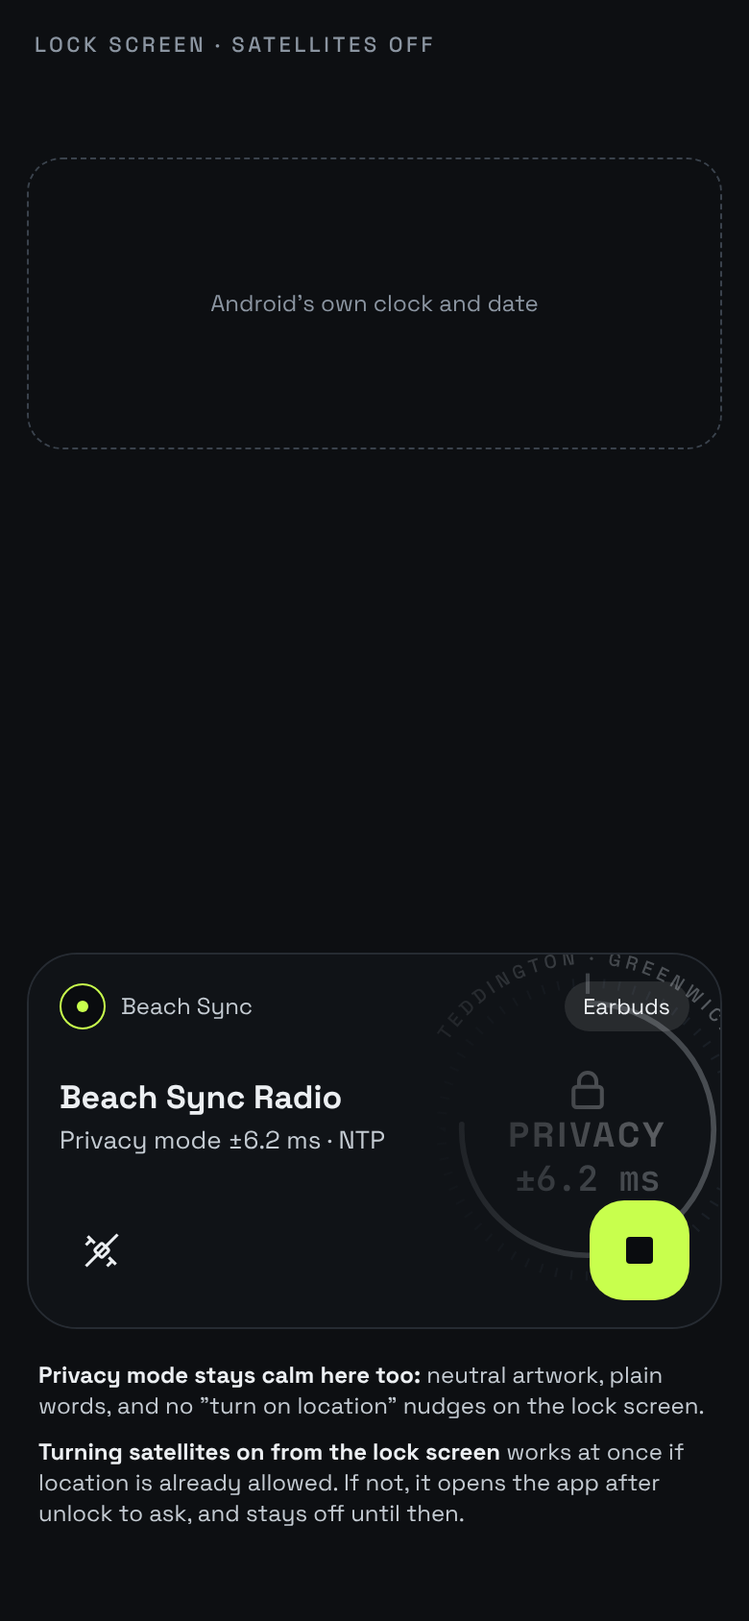
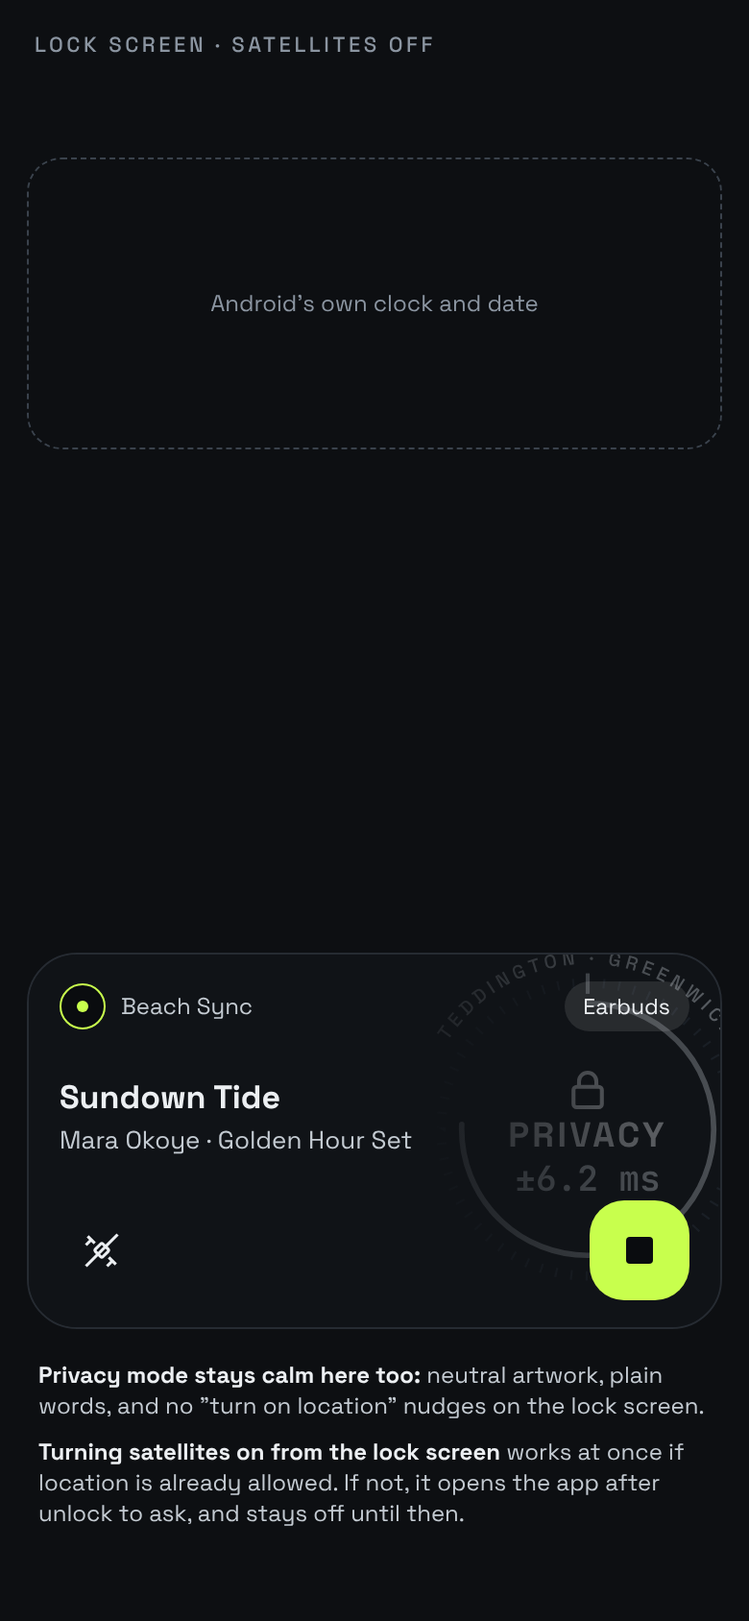
Add design hand-off 04 from Claude Desktop
Track and set names, the rate nudge row redesign, and answers to the
2 Nov notes in feedback.md.

Changed region(s): [[0.0615, 0.6469, 0.5538, 0.7085]]

diff --git a/design/screens/test-bench-states.html b/design/screens/test-bench-states.html
@@ -37,26 +37,34 @@ body{margin:0;background:#0A0C0F}
     <div style="background: #12161B; border: 1px solid #222932; border-radius: 12px; display: flex; align-items: center; justify-content: space-between; padding: 4px 4px 4px 12px"><span style="font-size: 13px; color: #C4CBD2">Off · Privacy mode</span><span style="width: 52px; height: 44px; display: flex; align-items: center; justify-content: center"><span style="width: 46px; height: 26px; border-radius: 13px; border: 1.5px solid #4A5562; display: flex; align-items: center; padding: 2px; box-sizing: border-box"><span style="width: 18px; height: 18px; border-radius: 50%; background: #8B95A1"></span></span></span></div>
   </div>
 
-  <span style="font-size: 10.5px; letter-spacing: 0.16em; color: #8B95A1; margin-top: 4px">RATE NUDGE ROW · UNDER THE LATEST EVENT</span>
-  <a href="nudge-control.html" style="text-decoration: none; color: #ECEFF2; min-height: 44px; display: grid; grid-template-columns: auto minmax(0, 1fr) auto; gap: 10px; align-items: center; background: #12161B; border: 1px solid #222932; border-radius: 12px; padding: 0 12px; font-size: 12.5px">
-    <span style="font-size: 11px; font-weight: 700; letter-spacing: 0.12em; padding: 3px 8px; border-radius: 6px; border: 1px solid #4A5562">AUTO</span>
-    <span style="white-space: nowrap; overflow: hidden; text-overflow: ellipsis">gap <span style="font-family: 'JetBrains Mono', ui-monospace, monospace">0.2 ms</span> · closes in <span style="font-family: 'JetBrains Mono', ui-monospace, monospace">1.4 s</span> · <span style="font-family: 'JetBrains Mono', ui-monospace, monospace">+0.01%</span></span>
-    <span style="font-size: 12px; color: #8B95A1">Nudge ›</span>
-  </a>
-  <a href="nudge-control.html" style="text-decoration: none; color: #ECEFF2; min-height: 44px; display: grid; grid-template-columns: auto minmax(0, 1fr) auto; gap: 10px; align-items: center; background: #12161B; border: 1px solid #222932; border-radius: 12px; padding: 0 12px; font-size: 12.5px">
-    <span style="font-size: 11px; font-weight: 700; letter-spacing: 0.12em; padding: 3px 8px; border-radius: 6px; border: 1px solid #C8FF4D; color: #C8FF4D">MANUAL</span>
-    <span style="white-space: nowrap; overflow: hidden; text-overflow: ellipsis">gap <span style="font-family: 'JetBrains Mono', ui-monospace, monospace">5.0 ms</span> · paused</span>
-    <span style="font-size: 12px; color: #8B95A1">Nudge ›</span>
-  </a>
+  <span style="font-size: 10.5px; letter-spacing: 0.16em; color: #8B95A1; margin-top: 4px">RATE NUDGE ROW · AUTO, MANUAL, NO GAP</span>
+  <a href="nudge-control.html" aria-label="Gap 0.20 milliseconds, Auto" style="text-decoration: none; color: #ECEFF2; min-height: 48px; display: grid; grid-template-columns: auto auto minmax(0, 1fr) auto; gap: 10px; align-items: center; background: #12161B; border: 1px solid #222932; border-radius: 12px; padding: 0 12px;">
+      <span style="font-size: 11px; font-weight: 700; letter-spacing: 0.12em; padding: 3px 8px; border-radius: 6px; border: 1px solid #4A5562">AUTO</span>
+      <span style="font-family: 'JetBrains Mono', ui-monospace, monospace; font-size: 14px; font-weight: 600">0.20 ms</span>
+      <span style="display: flex; flex-direction: column; gap: 1px; min-width: 0; font-size: 11px; color: #8B95A1"><span style="white-space: nowrap; overflow: hidden; text-overflow: ellipsis">gap · closes in 1.40 s</span><span style="white-space: nowrap; overflow: hidden; text-overflow: ellipsis">pitch +0.014%</span></span>
+      <span style="display: flex; align-items: center; color: #8B95A1"><svg width="14" height="14" viewBox="0 0 24 24" fill="none" stroke="currentColor" stroke-width="2" aria-hidden="true"><path d="M9 5l7 7-7 7"></path></svg></span>
+    </a>
+  <a href="nudge-control.html" aria-label="Gap 5 milliseconds, Manual, paused" style="text-decoration: none; color: #ECEFF2; min-height: 48px; display: grid; grid-template-columns: auto auto minmax(0, 1fr) auto; gap: 10px; align-items: center; background: #12161B; border: 1px solid #222932; border-radius: 12px; padding: 0 12px;">
+      <span style="font-size: 11px; font-weight: 700; letter-spacing: 0.12em; padding: 3px 8px; border-radius: 6px; border: 1px solid #C8FF4D; color: #C8FF4D">MANUAL</span>
+      <span style="font-family: 'JetBrains Mono', ui-monospace, monospace; font-size: 14px; font-weight: 600">5.00 ms</span>
+      <span style="display: flex; flex-direction: column; gap: 1px; min-width: 0; font-size: 11px; color: #8B95A1"><span style="white-space: nowrap; overflow: hidden; text-overflow: ellipsis">gap · paused</span><span style="white-space: nowrap; overflow: hidden; text-overflow: ellipsis">period 20 s</span></span>
+      <span style="display: flex; align-items: center; color: #8B95A1"><svg width="14" height="14" viewBox="0 0 24 24" fill="none" stroke="currentColor" stroke-width="2" aria-hidden="true"><path d="M9 5l7 7-7 7"></path></svg></span>
+    </a>
+  <a href="nudge-control.html" aria-label="No gap, Auto" style="text-decoration: none; color: #ECEFF2; min-height: 48px; display: grid; grid-template-columns: auto auto minmax(0, 1fr) auto; gap: 10px; align-items: center; background: #12161B; border: 1px solid #222932; border-radius: 12px; padding: 0 12px;">
+      <span style="font-size: 11px; font-weight: 700; letter-spacing: 0.12em; padding: 3px 8px; border-radius: 6px; border: 1px solid #4A5562">AUTO</span>
+      <span style="font-size: 13px; color: #8B95A1">in step</span>
+      <span></span>
+      <span style="display: flex; align-items: center; color: #8B95A1"><svg width="14" height="14" viewBox="0 0 24 24" fill="none" stroke="currentColor" stroke-width="2" aria-hidden="true"><path d="M9 5l7 7-7 7"></path></svg></span>
+    </a>
 
   <span style="font-size: 10.5px; letter-spacing: 0.16em; color: #8B95A1; margin-top: 4px">STATUS GRID · STREAM ROW AND ERROR LINES</span>
   <div style="background: #12161B; border: 1px solid #222932; border-radius: 12px; border-radius: 14px; padding: 9px 14px; display: grid; grid-template-columns: 58px minmax(0, 1fr); gap: 5px 10px; font-size: 11.5px; align-items: baseline">
     <span style="font-size: 10px; letter-spacing: 0.14em; color: #8B95A1">STREAM</span>
     <span>#<span style="font-family: 'JetBrains Mono', ui-monospace, monospace">2911</span> · <span style="font-family: 'JetBrains Mono', ui-monospace, monospace">60 s</span> buffered · <span style="font-family: 'JetBrains Mono', ui-monospace, monospace">0</span> errors · server−flow <span style="font-family: 'JetBrains Mono', ui-monospace, monospace">+3.1 ms</span></span>
     <span style="font-size: 10px; letter-spacing: 0.14em; color: #8B95A1">NTP</span>
-    <span style="display: flex; flex-direction: column; gap: 2px"><span>ntp1.npl S1 · rtt <span style="font-family: 'JetBrains Mono', ui-monospace, monospace">24 ms</span> · NTP−GPS <span style="font-family: 'JetBrains Mono', ui-monospace, monospace">−1.2 ms</span></span><a href="event-log.html" style="color: #FFB547; text-decoration: none; white-space: nowrap; overflow: hidden; text-overflow: ellipsis; min-height: 22px; display: block">▲ ntp2.npl.co.uk: timed out after 2 s, retrying ntp3…</a></span>
+    <span style="display: flex; flex-direction: column; justify-content: center; gap: 2px; min-height: 44px"><span>ntp1.npl S1 · rtt <span style="font-family: 'JetBrains Mono', ui-monospace, monospace">24 ms</span> · NTP−GPS <span style="font-family: 'JetBrains Mono', ui-monospace, monospace">−1.2 ms</span></span><a href="event-log.html" style="color: #FFB547; text-decoration: none; white-space: nowrap; overflow: hidden; text-overflow: ellipsis; display: block">▲ ntp2.npl.co.uk: timed out after 2 s, retrying ntp3…</a></span>
   </div>
-  <span style="font-size: 11px; color: #8B95A1">Stream mode adds the STREAM row after PLAYOUT. An error takes one extra line in amber with ▲, cut to one line; tap it for the full text in the event log.</span>
+  <span style="font-size: 11px; color: #8B95A1">Stream mode adds the STREAM row after PLAYOUT. An error adds one amber line with ▲. The whole row, at least 44 px tall, opens the event log at that lane.</span>
 
   <span style="font-size: 10.5px; letter-spacing: 0.16em; color: #8B95A1; margin-top: 4px">TIGHTENING · IN THE FLOWTIME CARD</span>
   <div style="background: #12161B; border: 1px solid #222932; border-radius: 12px; border-radius: 14px; padding: 10px 14px; display: flex; flex-direction: column; gap: 2px; align-items: flex-end">

diff --git a/design/screens/now-playing.html b/design/screens/now-playing.html
@@ -16,7 +16,7 @@ a{color:#C8FF4D}a:hover{color:#E2FF9E}
 
   <div style="display: flex; justify-content: space-between; align-items: center">
     <div style="display: flex; flex-direction: column; gap: 2px">
-      <span style="font-size: 11px; letter-spacing: 0.16em; color: #8B95A1; font-weight: 500">BEACH PARTY</span>
+      <span style="font-size: 11px; letter-spacing: 0.16em; color: #8B95A1; font-weight: 500">BEACH SYNC RADIO</span>
       <span style="font-size: 14px; font-weight: 500">Live · D 60 s</span>
     </div>
     <div style="display: flex; gap: 8px">
@@ -29,6 +29,16 @@ a{color:#C8FF4D}a:hover{color:#E2FF9E}
       <a href="settings.html" aria-label="Settings" style="width: 44px; height: 44px; border-radius: 12px; border: 1px solid #222932; display: flex; align-items: center; justify-content: center; color: #ECEFF2">
         <svg width="20" height="20" viewBox="0 0 24 24" fill="none" stroke="currentColor" stroke-width="1.6" aria-hidden="true"><path d="M4 7h10M18 7h2M4 17h4M12 17h8"></path><circle cx="16" cy="7" r="2"></circle><circle cx="10" cy="17" r="2"></circle></svg>
       </a>
+    </div>
+  </div>
+
+  <div style="display: flex; flex-direction: column; gap: 3px">
+    <span style="font-size: 20px; font-weight: 700; line-height: 1.15; white-space: nowrap; overflow: hidden; text-overflow: ellipsis">Sundown Tide</span>
+    <span style="font-size: 13px; color: #C4CBD2; white-space: nowrap; overflow: hidden; text-overflow: ellipsis">Mara Okoye · Golden Hour Set</span>
+    <div style="display: grid; grid-template-columns: auto minmax(0, 1fr) auto; gap: 8px; align-items: center; margin-top: 3px; font-family: 'JetBrains Mono', ui-monospace, monospace; font-size: 10.5px; color: #8B95A1">
+      <span>2:14</span>
+      <span style="height: 2px; border-radius: 1px; background: #1A1F26; position: relative"><span style="position: absolute; left: 0; top: 0; bottom: 0; width: 37%; border-radius: 1px; background: #ECEFF2"></span></span>
+      <span>−3:51</span>
     </div>
   </div>
 
@@ -95,23 +105,12 @@ a{color:#C8FF4D}a:hover{color:#E2FF9E}
     </div>
   </div>
 
-  <div style="background: #12161B; border: 1px solid #222932; border-radius: 14px; padding: 12px 14px; display: flex; flex-direction: column; gap: 6px">
-    <div style="display: flex; justify-content: space-between; align-items: baseline">
-      <span style="font-size: 10.5px; letter-spacing: 0.16em; color: #8B95A1">STREAM GAP · 60 s</span>
-      <span style="font-family: 'JetBrains Mono', ui-monospace, monospace; font-size: 12px; color: #C8FF4D">0.2 ms · closing</span>
-    </div>
-    <svg width="100%" height="34" viewBox="0 0 350 90" preserveAspectRatio="none" role="img" aria-label="Stream gap over the last minute: a step when GPS came back, closing smoothly">
-      <rect x="0" y="29" width="350" height="32" fill="#C8FF4D" fill-opacity="0.08"></rect>
-      <line x1="0" y1="45" x2="350" y2="45" stroke="#2A323C" stroke-dasharray="3 4"></line>
-      <polyline fill="none" stroke="#C8FF4D" stroke-width="1.6" stroke-linejoin="round" points="0.0,46.2 5.8,43.6 11.7,44.9 17.5,46.4 23.3,50.7 29.2,50.8 35.0,44.6 40.8,42.6 46.7,38.0 52.5,37.9 58.3,37.0 64.2,37.4 70.0,46.5 75.8,42.2 81.7,40.2 87.5,38.5 93.3,47.6 99.2,55.6 105.0,58.3 110.8,58.5 116.7,55.0 122.5,53.7 128.3,49.9 134.2,52.3 140.0,49.7 145.8,47.1 151.7,50.0 157.5,41.0 163.3,38.9 169.2,34.1 175.0,38.7 180.8,43.2 186.7,45.1 192.5,45.6 198.3,42.5 204.2,41.7 210.0,44.3 215.8,49.0 221.7,30.9 227.5,27.2 233.3,33.7 239.2,34.2 245.0,33.8 250.8,42.6 256.7,42.8 262.5,36.8 268.3,47.7 274.2,48.9 280.0,48.8 285.8,52.1 291.7,48.7 297.5,48.4 303.3,54.9 309.2,49.5 315.0,45.6 320.8,41.0 326.7,34.7 332.5,34.5 338.3,35.5 344.2,43.1 350.0,40.5"></polyline>
-      <circle cx="221.7" cy="30.9" r="3.5" fill="#FFB547"></circle>
-    </svg>
-    <a href="nudge-control.html" aria-label="Stream gap 0.2 milliseconds, closing on Auto in 1.4 seconds. Open nudge control" style="text-decoration: none; color: #ECEFF2; min-height: 44px; display: grid; grid-template-columns: auto minmax(0, 1fr) auto; gap: 10px; align-items: center; border-top: 1px solid #1A1F26; font-size: 12.5px">
+  <a href="nudge-control.html" aria-label="Stream gap 0.20 milliseconds, closing on Auto in 1.40 seconds. Open nudge control" style="text-decoration: none; color: #ECEFF2; min-height: 48px; display: grid; grid-template-columns: auto auto minmax(0, 1fr) auto; gap: 10px; align-items: center; background: #12161B; border: 1px solid #222932; border-radius: 12px; padding: 0 12px;">
       <span style="font-size: 11px; font-weight: 700; letter-spacing: 0.12em; padding: 3px 8px; border-radius: 6px; border: 1px solid #4A5562">AUTO</span>
-      <span style="white-space: nowrap; overflow: hidden; text-overflow: ellipsis">closes in <span style="font-family: 'JetBrains Mono', ui-monospace, monospace">1.4 s</span> · pitch <span style="font-family: 'JetBrains Mono', ui-monospace, monospace">−0.01%</span></span>
-      <span style="display: flex; align-items: center; gap: 2px; font-size: 12px; color: #8B95A1">Nudge<svg width="14" height="14" viewBox="0 0 24 24" fill="none" stroke="currentColor" stroke-width="2" aria-hidden="true"><path d="M9 5l7 7-7 7"></path></svg></span>
+      <span style="font-family: 'JetBrains Mono', ui-monospace, monospace; font-size: 14px; font-weight: 600">0.20 ms</span>
+      <span style="display: flex; flex-direction: column; gap: 1px; min-width: 0; font-size: 11px; color: #8B95A1"><span style="white-space: nowrap; overflow: hidden; text-overflow: ellipsis">gap · closes in 1.40 s</span><span style="white-space: nowrap; overflow: hidden; text-overflow: ellipsis">pitch +0.014%</span></span>
+      <span style="display: flex; align-items: center; color: #8B95A1"><svg width="14" height="14" viewBox="0 0 24 24" fill="none" stroke="currentColor" stroke-width="2" aria-hidden="true"><path d="M9 5l7 7-7 7"></path></svg></span>
     </a>
-  </div>
 
   <div style="display: grid; grid-template-columns: repeat(3, minmax(0, 1fr)); gap: 8px">
     <a href="time-signals.html" style="text-decoration: none; color: #ECEFF2; background: #12161B; border: 1px solid #222932; border-radius: 12px; padding: 8px 10px; display: flex; flex-direction: column; gap: 2px">

diff --git a/design/screens/notification-shade.html b/design/screens/notification-shade.html
@@ -40,8 +40,8 @@ body{margin:0;background:#1B1F24}
         <span style="font-size: 11.5px; color: #ECEFF2; background: rgba(255, 255, 255, 0.1); border-radius: 999px; padding: 6px 10px">Earbuds</span>
       </div>
       <div style="position: relative; display: flex; flex-direction: column; gap: 3px; max-width: 220px">
-        <span style="font-size: 17px; font-weight: 700">Beach Sync Radio</span>
-        <span style="font-size: 13px; color: #C4CBD2">In sync ±3.2 ms · GPS</span>
+        <span style="font-size: 17px; font-weight: 700">Sundown Tide</span>
+        <span style="font-size: 13px; color: #C4CBD2">Mara Okoye · Golden Hour Set</span>
       </div>
       <div style="position: relative; display: flex; justify-content: space-between; align-items: center">
         <button aria-pressed="true" aria-label="Use satellites, on" style="appearance: none; width: 44px; height: 44px; border-radius: 50%; border: none; background: transparent; color: #ECEFF2; display: flex; align-items: center; justify-content: center"><svg width="22" height="22" viewBox="0 0 24 24" fill="none" stroke="currentColor" stroke-width="1.7" aria-hidden="true"><rect x="9" y="9" width="6" height="6" rx="1" transform="rotate(45 12 12)"></rect><path d="M4 4l4 4M16 16l4 4M3 9l3-3M15 21l3-3"></path><path d="M17 3a4 4 0 0 1 4 4M17 6a1.5 1.5 0 0 1 1 1"></path></svg></button>
@@ -51,9 +51,9 @@ body{margin:0;background:#1B1F24}
 
   <div style="display: flex; flex-direction: column; gap: 10px; padding: 4px 6px; font-size: 12px; color: #C4CBD2">
     <span style="font-size: 10.5px; letter-spacing: 0.16em; color: #8B95A1">WHAT THE APP SUPPLIES</span>
-    <span><span style="color: #ECEFF2; font-weight: 700">Title:</span> the station or event, for example Beach Sync Radio or the event's name.</span>
-    <span><span style="color: #ECEFF2; font-weight: 700">Subtitle:</span> the badge in words, its ± figure and the source, for example <span style="font-family: 'JetBrains Mono', ui-monospace, monospace">In sync ±3.2 ms · GPS</span>. It changes only under the artwork's redraw rule.</span>
-    <span><span style="color: #ECEFF2; font-weight: 700">Artwork:</span> the state tile. Android crops it, tints the player from it and lays a scrim over it.</span>
+    <span><span style="color: #ECEFF2; font-weight: 700">Title:</span> the track, or the set or show when there's no track name.</span>
+    <span><span style="color: #ECEFF2; font-weight: 700">Subtitle:</span> artist and set, for example Mara Okoye · Golden Hour Set. Both switch when the new track reaches the ear, not when its name arrives.</span>
+    <span><span style="color: #ECEFF2; font-weight: 700">Artwork:</span> the sync state tile, so music takes the words and sync takes the picture. The badge text also goes in the album slot, for car and watch displays.</span>
     <span><span style="color: #ECEFF2; font-weight: 700">Left button:</span> Use satellites, as a custom action whose icon shows on or off. One tap from anywhere, even when locked.</span>
     <span><span style="color: #ECEFF2; font-weight: 700">Main button:</span> Stop and Play. Play rejoins the live point at D; there's no pause on a shared timeline.</span>
     <span><span style="color: #ECEFF2; font-weight: 700">No seek bar:</span> the session sets no duration, because it's live.</span>

diff --git a/design/screens/now-playing-minimal.html b/design/screens/now-playing-minimal.html
@@ -16,16 +16,21 @@ a{color:#C8FF4D}a:hover{color:#E2FF9E}
 
   <div style="display: flex; justify-content: space-between; align-items: center; min-height: 44px">
     <div style="display: flex; flex-direction: column; gap: 2px">
-      <span style="font-size: 11px; letter-spacing: 0.16em; color: #8B95A1; font-weight: 500">BEACH PARTY</span>
+      <span style="font-size: 11px; letter-spacing: 0.16em; color: #8B95A1; font-weight: 500">BEACH SYNC RADIO</span>
       <span style="font-size: 14px; font-weight: 500">Live · D 60 s</span>
     </div>
     <span style="font-size: 11px; letter-spacing: 0.14em; color: #8B95A1; border: 1px solid #2A323C; border-radius: 999px; padding: 6px 10px">SCREEN · MINIMAL</span>
   </div>
 
-  <div style="display: flex; flex-direction: column; gap: 4px; margin-top: 40px">
+  <div style="display: flex; flex-direction: column; gap: 4px; margin-top: 16px">
     <span style="font-size: 10.5px; letter-spacing: 0.18em; color: #8B95A1">TEDDINGTON · GREENWICH · GMT</span>
     <span style="font-family: 'JetBrains Mono', ui-monospace, monospace; font-size: 56px; font-weight: 600; letter-spacing: -0.03em">22:43:51</span>
     <span style="font-family: 'JetBrains Mono', ui-monospace, monospace; font-size: 18px; color: #8B95A1">23:43:51 CET · local</span>
+  </div>
+
+  <div style="display: flex; flex-direction: column; gap: 4px">
+    <span style="font-size: 22px; font-weight: 700">Sundown Tide</span>
+    <span style="font-size: 14px; color: #C4CBD2">Mara Okoye · Golden Hour Set</span>
   </div>
 
   <div style="display: flex; flex-direction: column; gap: 6px; padding: 14px 0; border-top: 1px solid #222932; border-bottom: 1px solid #222932">

diff --git a/design/screens/lock-screen.html b/design/screens/lock-screen.html
@@ -38,8 +38,8 @@ body{margin:0;background:#1B1F24}
         <span style="font-size: 11.5px; color: #ECEFF2; background: rgba(255, 255, 255, 0.1); border-radius: 999px; padding: 6px 10px">Earbuds</span>
       </div>
       <div style="position: relative; display: flex; flex-direction: column; gap: 3px; max-width: 220px">
-        <span style="font-size: 17px; font-weight: 700">Beach Sync Radio</span>
-        <span style="font-size: 13px; color: #C4CBD2">Privacy mode ±6.2 ms · NTP</span>
+        <span style="font-size: 17px; font-weight: 700">Sundown Tide</span>
+        <span style="font-size: 13px; color: #C4CBD2">Mara Okoye · Golden Hour Set</span>
       </div>
       <div style="position: relative; display: flex; justify-content: space-between; align-items: center">
         <button aria-pressed="false" aria-label="Use satellites, off" style="appearance: none; width: 44px; height: 44px; border-radius: 50%; border: none; background: transparent; color: #ECEFF2; display: flex; align-items: center; justify-content: center"><svg width="22" height="22" viewBox="0 0 24 24" fill="none" stroke="currentColor" stroke-width="1.7" aria-hidden="true"><rect x="9" y="9" width="6" height="6" rx="1" transform="rotate(45 12 12)"></rect><path d="M4 4l4 4M16 16l4 4M3 9l3-3M15 21l3-3"></path><path d="M3 21L21 3"></path></svg></button>

diff --git a/design/ui-spec.md b/design/ui-spec.md
@@ -1,4 +1,4 @@
-# UI spec (hand-off 03)
+# UI spec (hand-off 04)
 
 Field names come from Claude Code's "Fields that exist today" table in `feedback.md`, as of 1 Nov 2026. If one has been renamed since, use the new name.
 
@@ -13,7 +13,8 @@ Field names come from Claude Code's "Fields that exist today" table in `feedback
 - **Sync error:** the figure shown to the listener is `errAt(boot)` plus the absolute held gap (`NudgeControl.gapAt`). It will add the headphone-lag uncertainty **later**. Every ± in a badge is this number.
 - **Flowtime error and stream gap are separate.** Never add them together on screen, except in the badge figure above.
 - **Times** come from flowtime, never the system clock. Show `--:--:--` before there is a time source. The main clock and the event log show UK time (`Europe/London`, GMT or BST), branded **Teddington · Greenwich**. Local time sits beneath, using only the phone's time-zone setting, never its clock. Hide it when its offset equals UK time's. CSV logs stay in UTC ns.
-- **Tightening** (see Badge states) appears only when `EventDetector.tighteningFromNs` reports an improvement of at least 20% sustained for 10 s. Smaller changes update quietly, with no animation.
+- **Tightening** (see Badge states) appears once the error estimate has improved by at least 20% for 10 s, and stays for 10 s (Claude Code's `tighteningFromNs` behaviour, 2 Nov). Smaller changes update quietly, with no animation. When both figures share a unit, the unit is written once (`±11.4 → ±8.20 ms`); otherwise both are written out (`±11.4 ms → ±400 µs`).
+- **Track names** (title, artist, set or show) come from the stream, stamped by sample number. They switch when the new track's first sample reaches the ear (start + n / 48 kHz + D), never when the name arrives, so the name changes with the music. With no track name, show the set or show; with neither, show the station or event, with `Live` as the second line. Show the progress line only when the stream gives the track's start and length.
 - **Screen levels** (Full, Reduced, Minimal, Off): see the last section. Every screen follows them.
 - **Accessibility:** use words and a mark, never colour alone. Every tappable item is at least 44 × 44. Respect reduced motion: no sweep and no glow pulse. Screen-reader labels match the visible words.
 
@@ -25,15 +26,15 @@ Field names come from Claude Code's "Fields that exist today" table in `feedback
 
 | Element | Shows | Source | States and taps | Status |
 |---|---|---|---|---|
-| Header | Event or station name, `Live · D 60 s` | `StreamClient.manifest.dMs`; the name is **later** | Icon buttons (44 × 44) for Time signals, Headphone lag and Settings | now |
+| Header | Station or event name (eyebrow), `Live · D 60 s` | `StreamClient.manifest.dMs`; the name is **later** | Icon buttons (44 × 44) for Time signals, Headphone lag and Settings | now |
+| Now playing | Track title (20 px, bold, one line), `artist · set` (13 px, `textSecondary`), and a thin progress line with elapsed and remaining time | Stream track metadata (**later**; the prototype can show the manifest `source`) | Follows the Track names rule. Long names end with an ellipsis. | later |
 | Brocast clock | A dial. Along the top of the bezel, curved: `TEDDINGTON · GREENWICH`, with an accent meridian tick at 12 o'clock between the two names. Inside: the zone (GMT or BST), HH:MM:SS large, the fraction to the ns (digits finer than the error in `faded`), then local time beneath (`23:43:51 CET · local`). Along the bottom of the bezel, curved: `FLOWTIME ±error` in accent. | `FlowTime.fit().utcAt(boot)` at the frame's presentation time; `ZoneId.of("Europe/London")`; `ZoneId.systemDefault()` for the local line | Local line hidden when its offset equals UK time's. Screenlag correction is **later**. Draw the curved text with `drawTextOnPath`, or the Compose equivalent. | now |
 | Second sweep | An arc that fills once per flowtime second | The fraction of the current second | Off at Reduced level and with reduced motion | now |
 | Precision ring | A glow whose width shows the sync error on the budget's log scale; its figure is on the bottom bezel | Sync error | | now |
 | Sync badge | Words, the ± figure and the source | See Badge states | Tapping opens the error budget detail | now |
 | Latest event | Time, lane mark and name, and one line of text, **directly under the badge** | `EventLog.latest()` | Tapping opens the Event log. A banner elsewhere links to its own event. | now |
 | Sync error budget | Bars on a log scale from 1 µs to 10 ms: flowtime, headphone lag, total, screenlag | `errAt` now; headphone-lag uncertainty and screenlag **later** | | partly |
-| Stream gap card | Header: the gap now and whether it's closing. Trace: the last 60 s of gap. | `NudgeControl.gapAt`; the trace needs history, which is **later** | | partly |
-| Gap footer | Mode chip (AUTO or MANUAL), time left and pitch change | `NudgeControl.mode`, `secondsLeft`, `state.rate` | Tapping opens Nudge control | now |
+| Gap row | The rate nudge row: mode chip, the gap value, then two small lines (`gap · closes in 1.40 s` and `pitch +0.014%`) | `NudgeControl.gapAt`, `mode`, `secondsLeft`, `state.rate` | Opens Nudge control. The 60 s gap trace has left this screen to make room for the track; history belongs on Nudge control, **later**. | now |
 | Tiles | SOURCE, HEADPHONES, BUFFER (seconds in hand out of D) | `FlowTime.chosen`, `GpsTime`, `Settings.lagMs`, `StreamClient.buffered` | SOURCE opens Time signals; HEADPHONES opens Headphone lag | now |
 | Use satellites | A full-width row with a switch, never locked, one tap from the main screen. Shows `Position stays on this phone · off = Privacy mode`. | `GpsTime.active` | Off: the badge becomes Privacy mode. On: asks for location permission if needed; if refused, it returns to off. | now |
 
@@ -135,15 +136,16 @@ Android draws all three from one `MediaSession` and its media notification. The 
 
 | Slot | Content | Source | Updates |
 |---|---|---|---|
-| Title (`METADATA_KEY_TITLE`) | The station or event name, for example `Beach Sync Radio` | Event or station; **later** | On change |
-| Subtitle (`METADATA_KEY_ARTIST`) | Badge words, the ± figure and the source, for example `In sync ±3.2 ms · GPS` or `Privacy mode ±6.2 ms · NTP` | The badge state and sync error | Only under the redraw rule below |
+| Title (`METADATA_KEY_TITLE`) | The track, for example `Sundown Tide`; falls back as in the Track names rule | Stream track metadata | At heard time (Track names rule) |
+| Subtitle (`METADATA_KEY_ARTIST`) | `artist · set`, for example `Mara Okoye · Golden Hour Set` | Stream track metadata | At heard time |
+| Album (`METADATA_KEY_ALBUM`) | Badge words, the ± figure and the source, for example `In sync ±3.2 ms · GPS`. Car and watch displays show it. | The badge state and sync error | Only under the redraw rule below |
 | Artwork (`METADATA_KEY_ART`) | A 512 × 512 state tile, rendered by the app (`screens/notification-art.png`) | Badge state, ± figure | Only under the redraw rule |
 | Playback state | `STATE_PLAYING` or `STATE_STOPPED`; no duration, so no seek bar | `Playout.state` | On change |
 | Main button | Stop or Play. Play rejoins the live point at D; there's no pause. | | |
 | Custom action 1 | **Use satellites:** icon on (Material Symbols `satellite_alt`) or off (the same icon crossed through). Label `Satellites on` or `Satellites off (Privacy mode)`. | `GpsTime.active` | On change |
 | Content intent | Opens Now playing | | |
 
-**Redraw rule:** update the subtitle and artwork only when the badge state changes, or when the ± figure moves a step (1, 2, 5, 10, 20 ms) and holds it for 10 s. Never update every second.
+**Redraw rule:** update the album text and artwork only when the badge state changes, or when the ± figure moves a step (1, 2, 5, 10, 20 ms) and holds it for 10 s. Never update every second.
 
 **Artwork tile:** a dark ground (`bg`), the tick ring, the meridian tick and the `TEDDINGTON · GREENWICH` bezel, a static arc, the state mark, the state word, and the ± figure. Use the state's colour from `tokens.color.status`. Keep everything that matters in the middle 60%, because Android crops it and lays a scrim over it. Privacy mode is neutral at any error. Not in sync has no arc.
 
@@ -159,9 +161,9 @@ Android draws all three from one `MediaSession` and its media notification. The 
 | Start / Stop | START RUN: filled accent with dark text and a ▶. STOP RUN: a `text` outline with a ■. Both 52 high and full width. |
 | Settings | 100% opacity and editable while stopped; 55% and locked while running. Use satellites is never locked. |
 | Satellites switch, off | Track: a 1.5 px outline in `faint`; thumb: 18 px in `muted`, on the left. On: an accent track with a 22 px thumb in `bg`, on the right. The same on every screen. |
-| Rate nudge row | A 44 px row under the latest event: a mode chip (AUTO outlined in `faint`; MANUAL outlined and lettered in accent), then `gap · closes in · pitch`, or `gap · paused`, then `Nudge ›`. Opens Nudge control. |
+| Rate nudge row | A 48 px row: the mode chip (AUTO outlined in `faint`; MANUAL outlined and lettered in accent), the gap value in 14 px mono, two 11 px lines (`gap · closes in 1.40 s` over `pitch +0.014%`; Manual and paused: `gap · paused` over `period 20 s`), then a chevron. No gap: the value reads `in step` in `muted`, with no small lines. Opens Nudge control. The same row appears on Now playing. |
 | STREAM row | Stream mode only, after PLAYOUT: newest segment, seconds buffered, fetch errors, server−flowtime |
-| Error lines | One extra line under the row, in `warn` with ▲, cut to one line. Tapping it opens the event log for that lane. Applies to OUTPUT, NTP and STREAM. |
+| Error lines | One extra line under the row, in `warn` with ▲, cut to one line. The **whole status row** (label, value and error line) is the tap target, at least 44 px tall. It opens the event log at that row's lane: OUTPUT opens AUDIO, NTP and STREAM open NET. The row always shows the latest error text. If the text changes while the error continues, the log adds a line (`still failing: …`). |
 | Tightening | One line under the source detail in the flowtime card: `TIGHTENING` in accent, then `±from → ±to` in `muted` mono. Only under the tightening rule. |
 
 ---

diff --git a/design/handoff-04.md b/design/handoff-04.md
@@ -1,0 +1,26 @@
+# Hand-off 04 (2 Nov 2026): track and set names, and answers to your notes
+
+The user asked for the name of the set, track or tune to be shown. Music now takes the words and sync takes the picture.
+
+## What changed
+
+| Item | Change | Needs code? |
+|---|---|---|
+| `screens/now-playing` | A track block under the header: title, `artist · set`, and a progress line. The eyebrow names the station or event. The stream gap card is now a single nudge row (the trace is gone, to make room). | yes |
+| `screens/now-playing-minimal` | The track and `artist · set` under the clock | yes |
+| `screens/notification-shade`, `lock-screen` | Title = the track; artist = `artist · set`; the badge text moves to the album slot. The artwork still shows the sync state. | yes |
+| `screens/test-bench-states` | The rate nudge row is redesigned (value, then two small lines) with Auto, Manual-paused and no-gap examples. The error row is one tap target at least 44 px tall. | yes |
+| `ui-spec.md` | New rule: Track names. Changed: Tightening; Now playing (Now playing, Gap row); Notification (Title, Subtitle, Album, Redraw rule); Test bench states (Rate nudge row, Error lines). | — |
+
+**Data this needs:** each track's title, artist, and set or show, stamped by sample number, so the name changes when the music does, D after ingest. The prototype can show the manifest's `source` until the stream carries real track data.
+
+## Answers to `feedback.md` (2 Nov)
+
+| Your note | Answer |
+|---|---|
+| Clipped pitch in the nudge row | Redesigned: the gap value, then two small lines. `0.20 ms`, `1.40 s` and `+0.014%` all fit. |
+| How long the tightening line stays | Your behaviour is adopted: it appears after 10 s of improvement and stays for 10 s. |
+| Tightening units | Your rule is adopted: one unit when both figures share it, both units otherwise |
+| 22 px error line under the 44 px target | Make the **whole status row** the tap target, at least 44 px tall; the error stays one text line. |
+| Event log lane for errors | Your mapping is adopted: OUTPUT opens AUDIO; NTP and STREAM open NET. If the error text changes while it continues, log another line (`still failing: …`), and keep the row showing the latest text. |
+| Nudge row with no gap | The value reads `in step` in `muted`, with no small lines, and the row still opens Nudge control |
